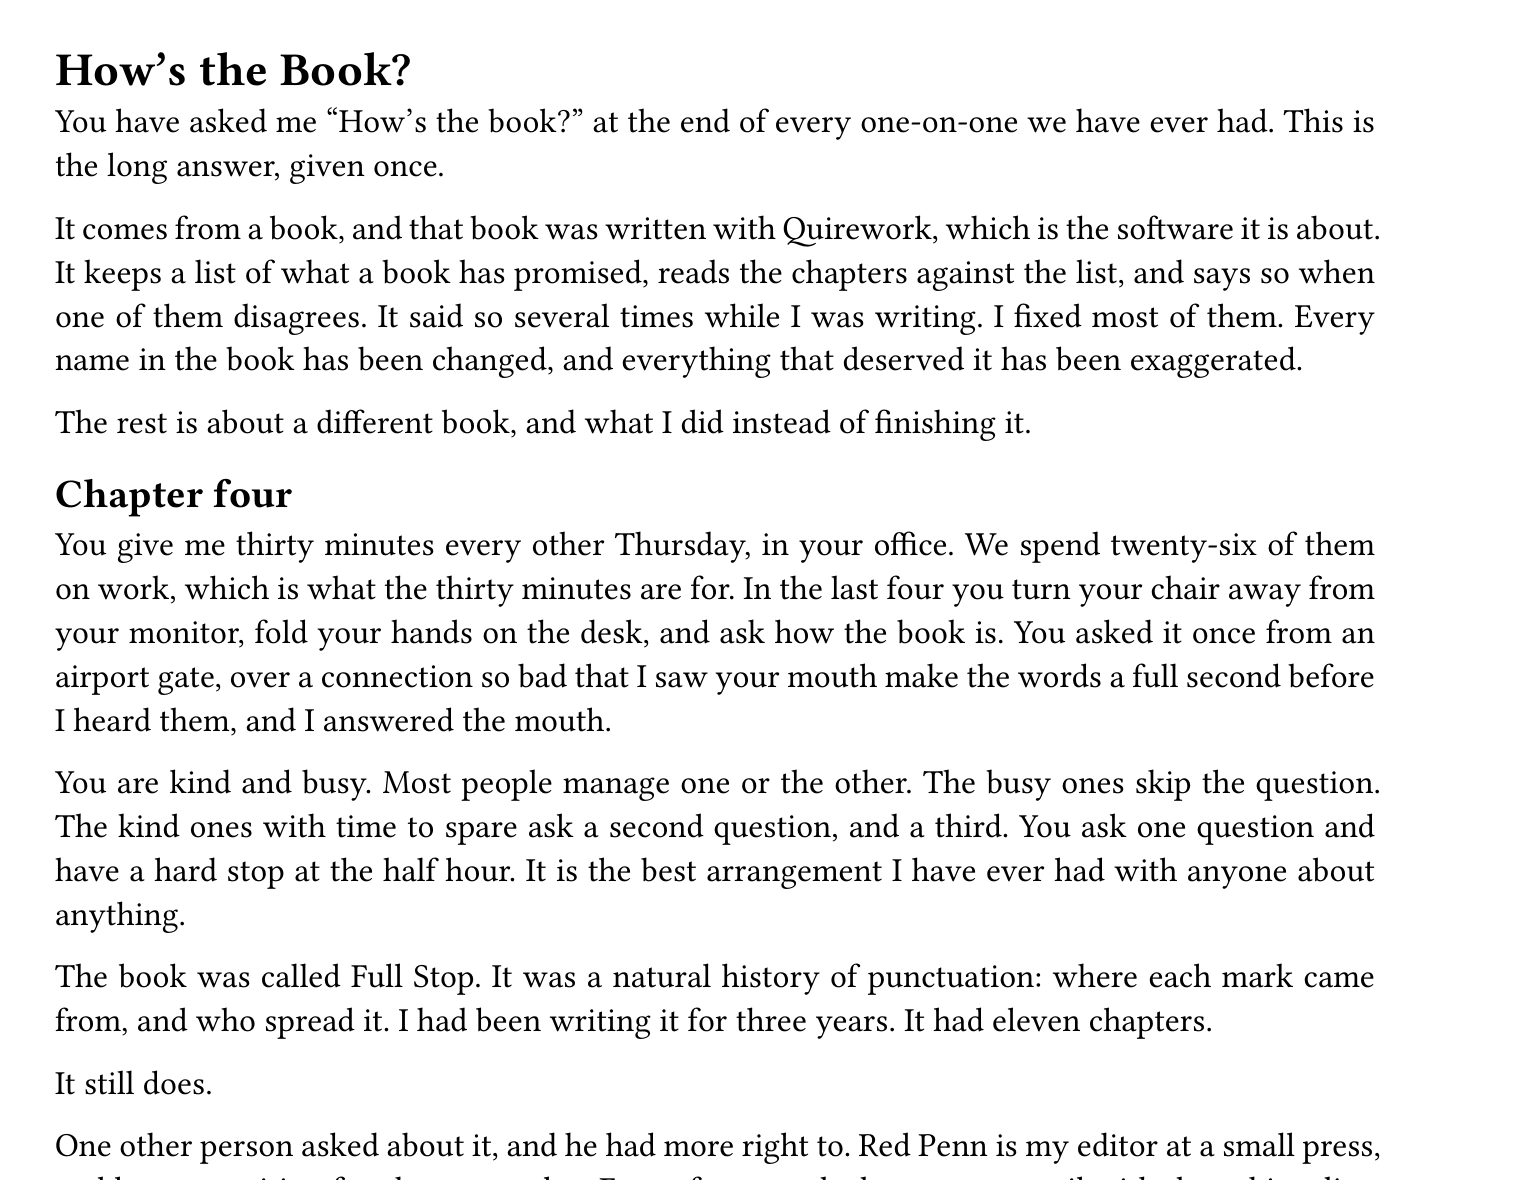
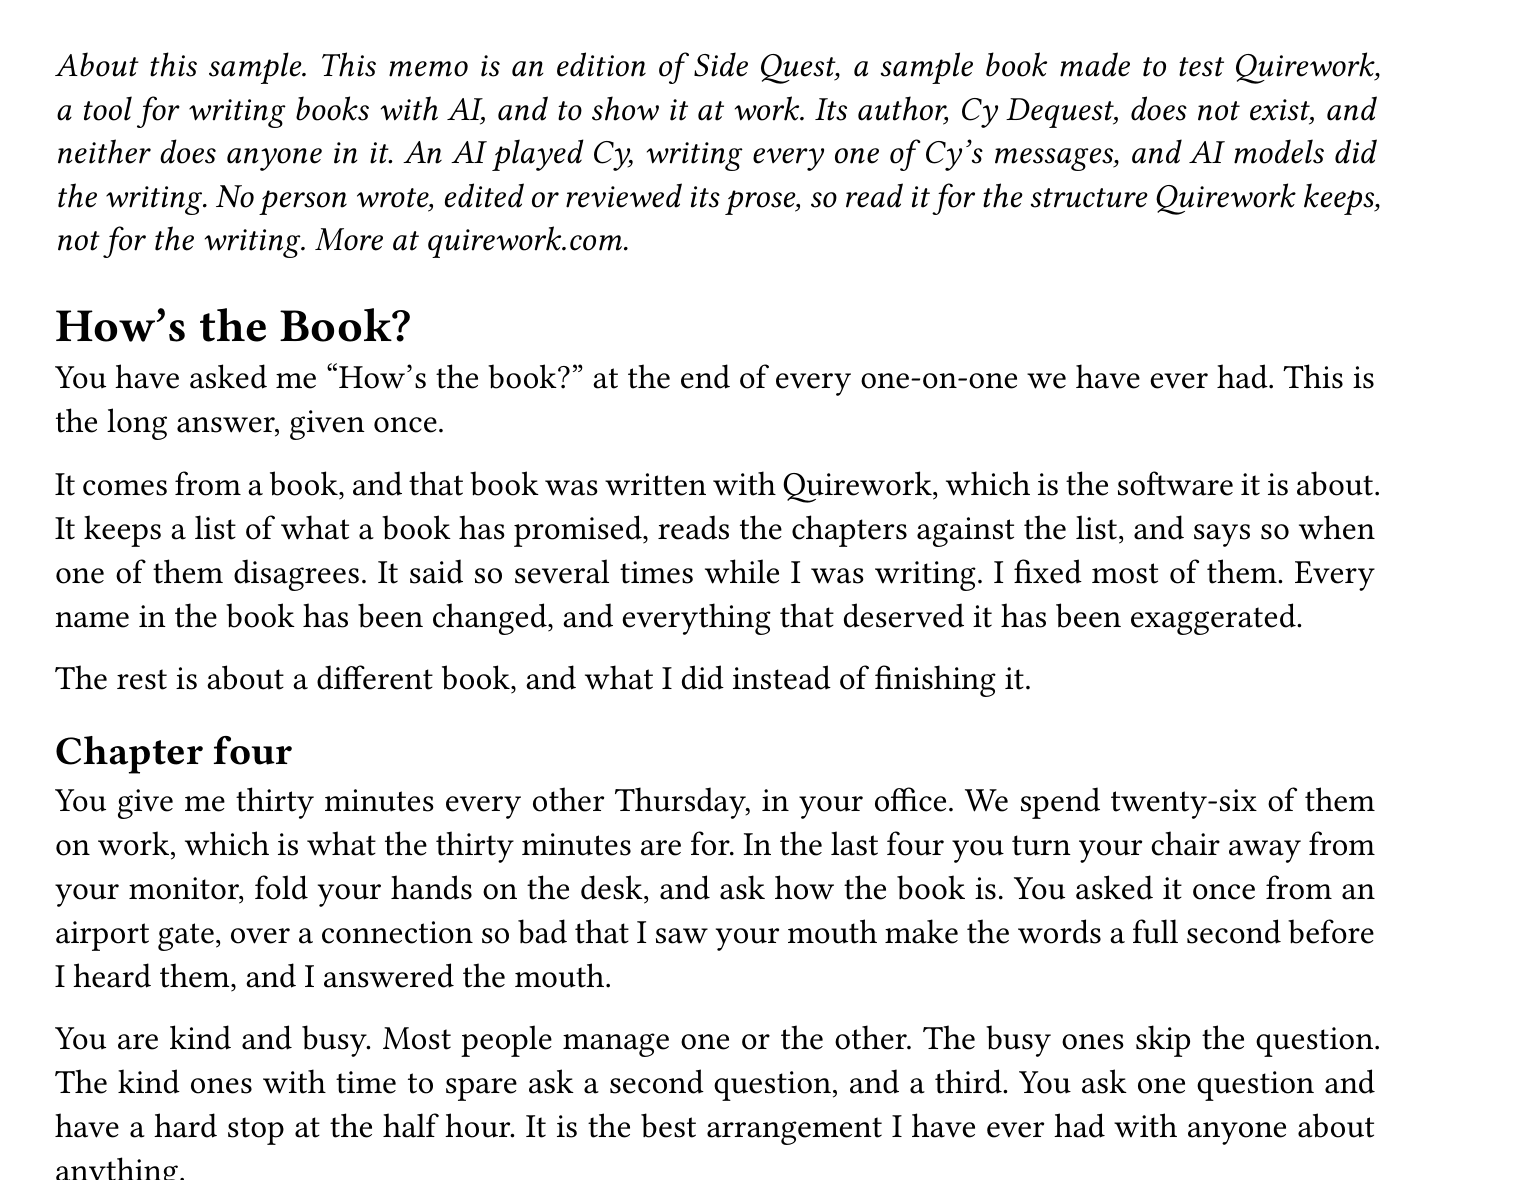
Present the samples as fixtures, not showcases
The site said everywhere that Side Quest and the Lighthouse Log are
fiction, and nowhere that no person reviewed their prose. Fiction
answers whether the author is real. It does not answer whether this
is the writing Quirework produces, which is what a critical visitor
asks. Some copy invited that reading: the home page said that what is
real is the work the tool did on them, a caption praised the poems'
metre and rhyme, and the sample's cover sat on the home page with a
link to read the book.

Every place a visitor meets a sample now says that AI wrote it and no
person edited or reviewed it, and that it is read for the structure
the tool keeps. The home page opens the samples' section on that, and
loses the cover, which stays on the examples page inside the
explanation. The caption says how the poems were drafted, not how
well. The banner on every rendered page calls the book a test fixture,
and the examples page says each download carries the book's own note.

The section on the book being written at mindwright.dev now says that
the book is not published yet, and that once it is, it will be the
measure of the tool, which the samples are not. AGENTS.md allows that
claim, as one about the tool made by its maintainer, and gains the
rules that keep the rest: the samples are fixtures, no copy praises
their prose, and the home page shows no picture of one.

The memo's screenshot is recaptured, since its first page now opens on
[…]

Changed region(s): [[0.0309, 0.3966, 0.8967, 1.0], [0.0309, 0.0305, 0.9276, 0.3661]]

diff --git a/site/static/side-quest/notice.css b/site/static/side-quest/notice.css
@@ -1,6 +1,7 @@
 /* The notice scripts/stage-renders puts at the top of every page of the
-   sample book's renders: Side Quest is fiction. Quarto styles the rest of
-   the page; this styles only the notice, in the site's paper and ink. */
+   sample book's renders: Side Quest is a test fixture. Quarto styles the
+   rest of the page; this styles only the notice, in the site's paper and
+   ink. */
 
 .qw-sample-notice {
   margin: 0;

diff --git a/site/layouts/partials/footer.html b/site/layouts/partials/footer.html
@@ -4,6 +4,7 @@
       license. The <a href="{{ site.Params.repo }}">source and the guides</a>
       are on GitHub.</p>
     <p>Side Quest and the Lighthouse Log, the examples quoted here, are
-      fiction written for the purpose.</p>
+      fiction that AI wrote to test the tool. No person reviewed their
+      prose.</p>
   </div>
 </footer>

diff --git a/site/content/examples.md b/site/content/examples.md
@@ -2,12 +2,13 @@
 title: Examples
 lede: >-
   Two projects in Quirework's repository consume it the way yours would: a
-  sample book and a sample site. Both are fiction, invented to exercise the
-  tool, and both run in its test suite.
+  sample book and a sample site. Both are test fixtures, not showcases. AI
+  wrote them, and no person edited or reviewed their prose, so read them for
+  the structure the tool keeps, not for the writing.
 description: >-
   Side Quest, a short book with a spec, a trail, four formats and three
   derived editions, and the Lighthouse Log, a Hugo site with a spec per
-  post: the two worked examples in Quirework's repository.
+  post: the two test fixtures in Quirework's repository, written by AI.
 ---
 
 ## Side Quest
@@ -26,10 +27,11 @@ Everything in it is fiction, its author included. Cy Dequest, Cy's
 manager, editor and colleagues, and the book Cy never finished do not
 exist, and none of it is an account of how Quirework was made. An AI
 played Cy, writing every one of Cy's messages from a brief, and drove an
-AI companion that did the work. So the book demonstrates the method and
-nothing more. Its provenance metrics, which measure what the human
-contributed against what the machine did, measure one model against
-another.
+AI companion that did the work. No person edited or reviewed its prose.
+So the book demonstrates the method and nothing more: read it for what
+the tool kept, not for the writing. Its provenance metrics, which
+measure what the human contributed against what the machine did, measure
+one model against another.
 
 ### The problem it is about
 
@@ -66,7 +68,7 @@ commitment the book makes.
 
 {{< shot src="images/side-quest/book-pdf.png" alt="Chapter 5 of Side Quest in the PDF, under a boxed chapter heading." width="440" caption="The same chapter in the PDF, set by Typst." >}}
 
-{{< shot src="images/side-quest/poems-html.png" alt="Chapter 5 of Side Quest retold as rhyming verse." width="440" caption="The poems: one per chapter, in real metre and full rhyme, drafted on a different model from the other editions." >}}
+{{< shot src="images/side-quest/poems-html.png" alt="Chapter 5 of Side Quest retold as rhyming verse." width="440" caption="The poems: one per chapter, drafted on a different model from the other editions." >}}
 
 {{< shot src="images/side-quest/young-html.png" alt="Chapter 5 of Side Quest in the young readers' edition." width="440" caption="The young readers' edition, for readers of about ten who read well and alone." >}}
 
@@ -84,7 +86,9 @@ typeface.
 
 Each edition is rendered from the book's source every time this site is
 published, by the same `quirework publish build` an author runs. Every
-page carries a notice that the book is fiction.
+page carries a notice that the book is a test fixture whose prose no
+person reviewed, and every download carries the book's own note to the
+same effect, ahead of the preface.
 
 | Edition | In the browser | Download |
 |---|---|---|
@@ -117,10 +121,11 @@ quirework publish build
 ## The Lighthouse Log
 
 The Lighthouse Log is a small blog built by Hugo: the log of a fictional
-lighthouse keeper. It has two posts in page bundles, one of them a
-draft. Each post has a spec of its own, with its reader, its thesis and
-its boundaries. A shared spec holds what both posts lean on, and a post
-that binds another's claim is listed when that claim changes.
+lighthouse keeper. Like the book, AI wrote it, and no person reviewed
+its posts. It has two posts in page bundles, one of them a draft. Each
+post has a spec of its own, with its reader, its thesis and its
+boundaries. A shared spec holds what both posts lean on, and a post that
+binds another's claim is listed when that claim changes.
 
 {{< listing name="files" caption="Every file in the site. Hugo reads `hugo.toml` and `content/`. Quirework reads the rest, and the specs and notes sit outside the tree Hugo renders, so no visitor is ever served one. The skill under `.claude/` is the entry point `sop skills` generated." >}}
 

diff --git a/site/AGENTS.md b/site/AGENTS.md
@@ -19,14 +19,18 @@ of commits.
 ## What it may say about mindwright
 
 The home page names one project written with Quirework, the book at
-mindwright.dev. It may say only what that site says publicly, and that
-the book is being written with Quirework:
+mindwright.dev. It may say what that site says publicly:
 
 - that a book by Ademar Reis, with the subtitle *A software engineer's
   philosophy of mind*, is due in early 2027;
 - the page's paragraph on how the book is being made, quoted word for
   word;
 - the link to mindwright.dev.
+
+It may also say two things of its own. The book is being written with
+Quirework. It is not published yet, and once it is, it will be the
+measure of the tool, which the samples are not. Both are claims about
+Quirework, made by its maintainer, and neither describes the book.
 
 It says nothing else about the book:
 
@@ -51,15 +55,27 @@ one where an example's own text does.
 ## The tool first, the samples last
 
 The site is about the tool. Side Quest and the Lighthouse Log are
-fiction, invented to exercise it, and they never lead.
+fiction that AI wrote to test it, with prose no person reviewed, and
+they never lead.
 
+- **The samples are fixtures, never showcases.** A visitor judges a tool
+  by the best work it shows, and nobody judged a page of these. So no
+  copy praises their prose, and no caption calls an edition good. A
+  caption says how an edition was made, never how well it reads.
+- **Wherever a reader reaches a sample, it says who wrote it.** Each
+  mention says that AI wrote it and that no person reviewed its prose.
+  The home page also says that the book at mindwright.dev, once
+  published, will be the measure of the tool.
 - **The home page reaches them only in their own section**, near its
   end, after the spec, the trail, the procedures and the book written
   with Quirework. Every section before it explains the tool in general
   terms and draws it with general diagrams.
+- **The home page shows no picture of a sample.** The cover lives on the
+  examples page, inside the explanation. On the home page it would be a
+  showcase, whatever the copy beside it says.
 - **A deeper page opens on the tool too.** Where it shows the samples'
-  output, it says once that they are fiction, and every caption names
-  the sample book as the sample book.
+  output, it says once that they are fiction that AI wrote and no person
+  reviewed, and every caption names the sample book as the sample book.
 - **What a sample did is set apart** with `{{% sample %}}`, a dotted
   rule beside text that itself begins "In the sample book". The style
   marks it, and the words say it, since a style alone does not reach
@@ -166,10 +182,13 @@ site never serves a render older than the book, or than the tool.
   refuses to run if any edition or format is missing. It names each
   download for its edition, so that two never land in one folder as the
   same file.
-- **Every page says the book is fiction.** A reader can land on any
-  chapter from anywhere, so the notice goes on each page, and the robots
-  tag and an `X-Robots-Tag` header keep the pages out of search results.
-  The PDF, EPUB and Word files are the renders as made.
+- **Every page says the book is a test fixture**, which AI wrote and no
+  person reviewed. A reader can land on any chapter from anywhere, so
+  the notice goes on each page, and the robots tag and an `X-Robots-Tag`
+  header keep the pages out of search results. The PDF, EPUB and Word
+  files are the renders as made. They carry the same message in the
+  book's own note, on an unlisted page before the preface, which the
+  book's `AGENTS.md` describes.
 - **The pages run under a looser policy of their own.** Quarto's pages
   need inline scripts and styles, so `static/_headers` drops the site's
   Content Security Policy for `/side-quest/` and sets one that allows

diff --git a/site/content/_index.md b/site/content/_index.md
@@ -141,26 +141,27 @@ this way.
 > judgments and the direction are the author's. Most of the sentences are
 > the machine's, and the book will account for exactly who did what.
 
+The book is not published yet. When it is, it will be the measure of the
+tool. The two samples below are not.
+
 [Read about the book at mindwright.dev](https://mindwright.dev/)
 
 {{% /band %}}
 
-## A sample book and a sample site
+## Two samples, made to test the tool
 
-{{% aside %}}
-{{< shot src="images/side-quest/cover.jpg" alt="Read Side Quest, the fictional sample book. Its cover is a pencil drawing of a kitchen table with a tied manuscript, a box of index cards, a laptop and a mug, and one line on a loose page circled in orange." width="240" class="cover" link="/side-quest/book/" caption="[Read the book](/side-quest/book/)" >}}
-{{% /aside %}}
-
-Quirework's repository carries two worked examples, and both are
-fiction, invented to exercise the tool. Their authors, their people and
-their stories do not exist. What is real is the work the tool did on
-them.
+Quirework's repository carries two worked examples, a book and a blog.
+**Both are test fixtures, not showcases.** Their authors, their people
+and their stories are invented. AI wrote them, and no person edited or
+reviewed their prose. Quirework is built for an author who judges every
+page, and these two had no such author. So read them for the structure
+the tool keeps, not for the writing.
 
 [Side Quest](/side-quest/book/) is a short comic memoir by Cy Dequest,
 about building Quirework instead of finishing a book. Cy is invented: an
-AI played the author and drove the companion that did the work, and the
-book's README says so. It is not an account of how Quirework was made.
-The tool's part is real: a spec and its trail, a book in four formats,
+AI played the author and drove the companion that did the work. It is
+not an account of how Quirework was made. The tool's part is real, and
+it is the part to judge: a spec and its trail, a book in four formats,
 three derived editions bound to the same spec, and the fifteen sessions
 it was written in.
 

diff --git a/site/content/procedures.md b/site/content/procedures.md
@@ -17,7 +17,7 @@ chapter, checks a claim, researches a source, or makes an edition. A
 catalog says what each one requires reading first, which tools it uses,
 and which other procedures may follow it.
 
-{{< listing name="sop-list" caption="The procedures of Side Quest, the sample book in Quirework's repository, grouped by the question each one answers. The book is fiction, invented to exercise the tool." >}}
+{{< listing name="sop-list" caption="The procedures of Side Quest, the sample book in Quirework's repository, grouped by the question each one answers. The book is fiction that AI wrote to test the tool, and no person reviewed its prose." >}}
 
 `sop explain` prints a procedure's required reading in dependency order,
 with its length, so the companion knows what to read before it starts.

diff --git a/site/content/spec-and-trail.md b/site/content/spec-and-trail.md
@@ -21,8 +21,9 @@ that has to stay consistent with itself while it grows.
 {{< diagram name="commitment" narrow="commitment-narrow" caption="One commitment, and every place the work carries it. When the commitment changes, every one of them is listed. The circle marks the one that still says what the work no longer holds." >}}
 
 The listings on this page are real output, run against Side Quest, the
-sample book in Quirework's repository. The book is fiction, invented to
-exercise the tool; [the examples page](/examples/#side-quest) says more.
+sample book in Quirework's repository. The book is fiction that AI wrote
+to test the tool, and no person reviewed its prose.
+[The examples page](/examples/#side-quest) says more.
 
 ## A file of commitments
 
